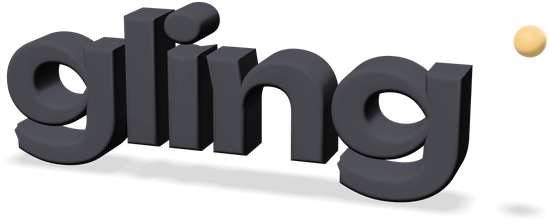
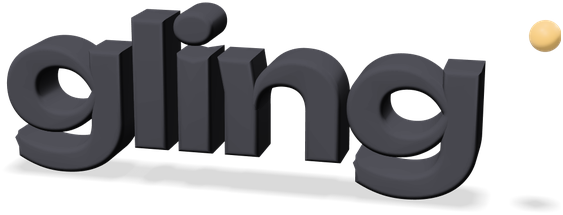
Turn the home wordmark 10 degrees toward the front and use white clay on dark screens
The black clay sank into dark backgrounds. Same model and light; yaw -0.0255 rad in total, white variant rendered in #D6D0CC with the gold dot kept. Owner 89e0a240, 6aa0942b.

diff --git a/src/components/feed-screen.tsx b/src/components/feed-screen.tsx
@@ -60,7 +60,7 @@ import { useScreenGlow } from '@/components/screen-glow';
 import { TabContent } from '@/components/tab-content';
 import { ThemedText } from '@/components/themed-text';
 import { ThemedView } from '@/components/themed-view';
-import { Depth, MaxContentWidth, Spacing, TabBarHeight } from '@/constants/theme';
+import { Colors, Depth, MaxContentWidth, Spacing, TabBarHeight } from '@/constants/theme';
 import { ControlMetrics, ControlMotion, ControlStyles, IconSize, Typography, controlPresentation } from '@/constants/design-system';
 import { useTheme } from '@/hooks/use-theme';
 import { useContentVisibility } from '@/hooks/use-content-visibility';
@@ -851,8 +851,8 @@ export default function FeedScreen({ meetupsOnly = false }: { meetupsOnly?: bool
         <View style={[styles.headRow, expandedHeader && styles.headRowLarge]}>
           <Pressable analyticsId="feed.home" accessibilityRole="button" accessibilityLabel={`${t.appName}, ${t.tabs.today}`}
             onPress={() => { play('selection'); router.navigate('/'); }} style={[styles.homeButton, expandedHeader && styles.homeButtonLarge]}>
-            {/* The 3D clay wordmark reads on both themes (owner cefa3390 "헤더 글링로고도 3d … 만들어놓은걸로"). */}
-            <Image source={require('@/assets/brand/gling-3d-wordmark.png')} style={[styles.wordmark, (viewportWidth < 380 || fontScale > 1.2) && styles.wordmarkCompact]} contentFit="contain" accessible={false} />
+            {/* Black clay on light screens, white clay on dark ones (owner 6aa0942b). */}
+            <Image source={theme === Colors.dark ? require('@/assets/brand/gling-3d-wordmark-dark.png') : require('@/assets/brand/gling-3d-wordmark.png')} style={[styles.wordmark, (viewportWidth < 380 || fontScale > 1.2) && styles.wordmarkCompact]} contentFit="contain" accessible={false} />
           </Pressable>
           <GlassSurface tone="control" interactive style={[styles.cityGlass, expandedHeader && styles.cityGlassLarge]}><Pressable analyticsId="components_feed-screen.pressable.1"
             onPress={() => { play('reaction'); setCityPicker(true); }} accessibilityRole="button"
